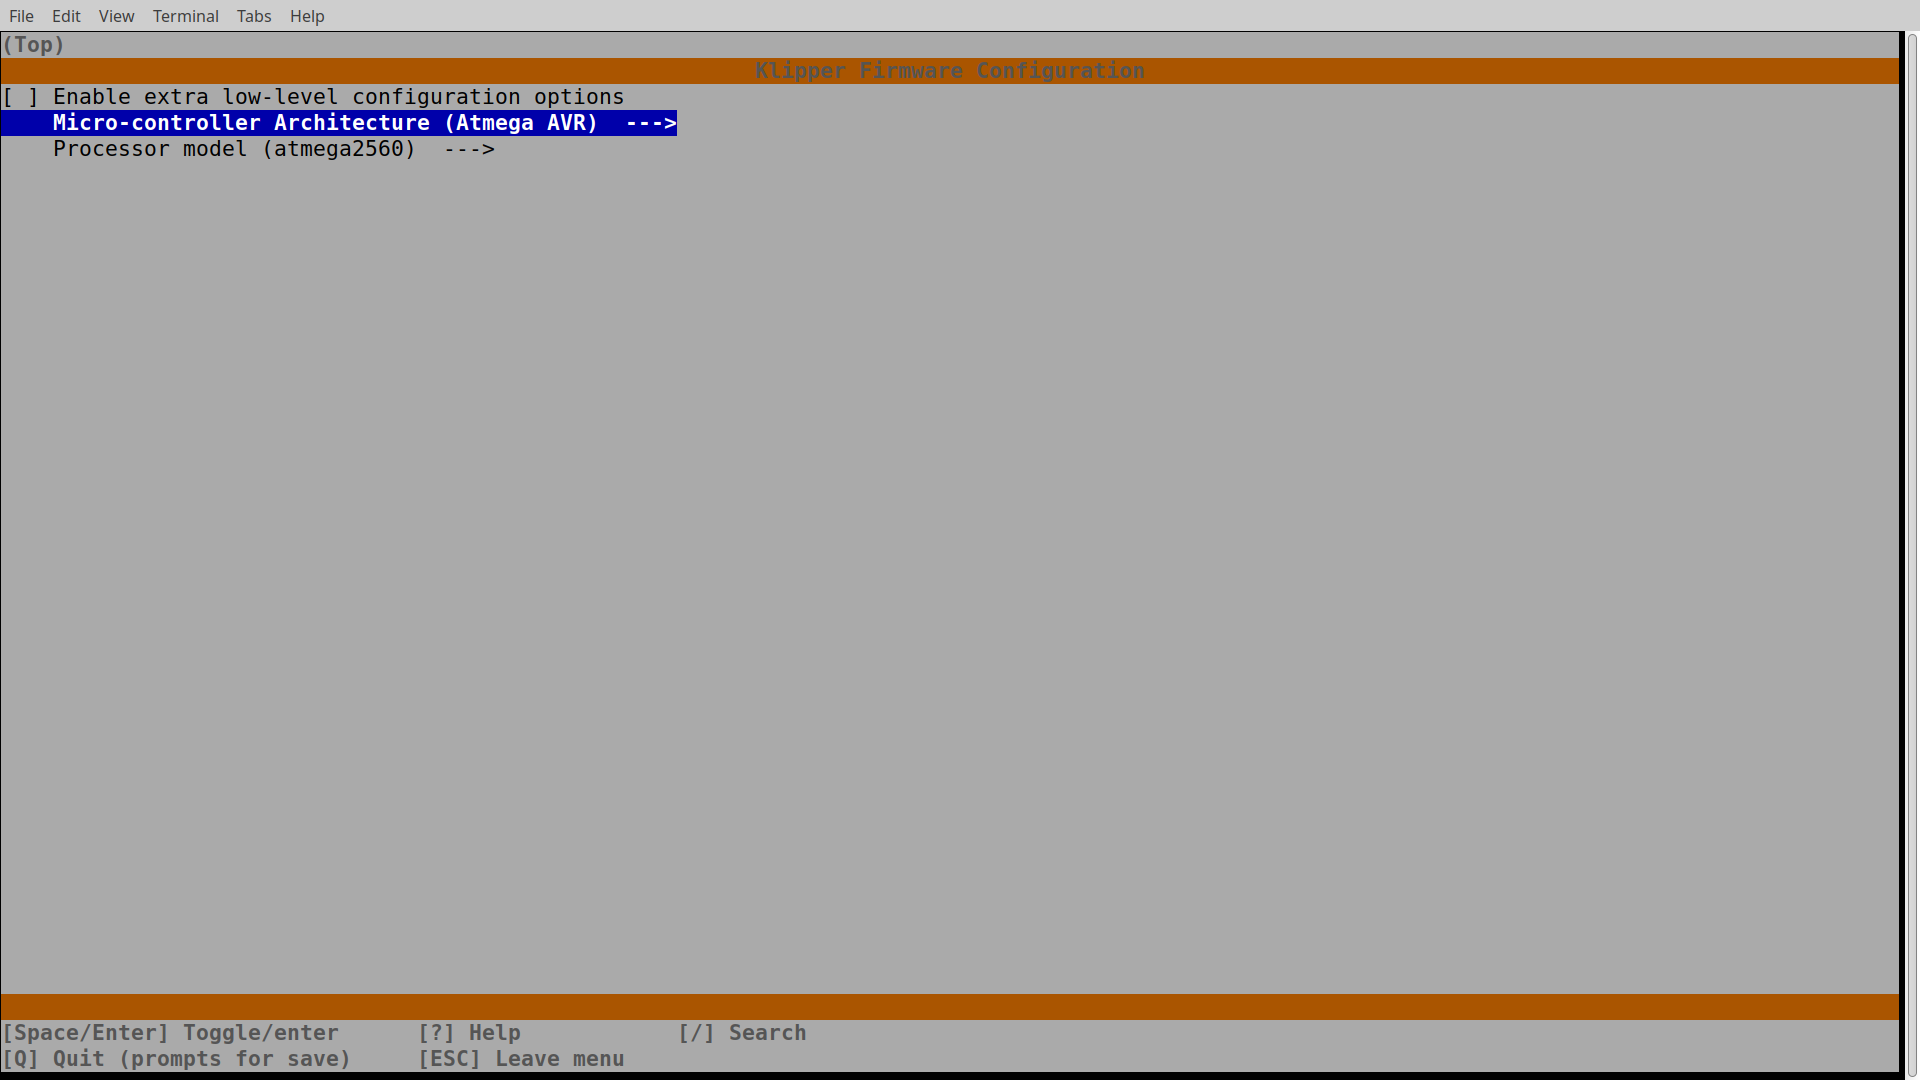
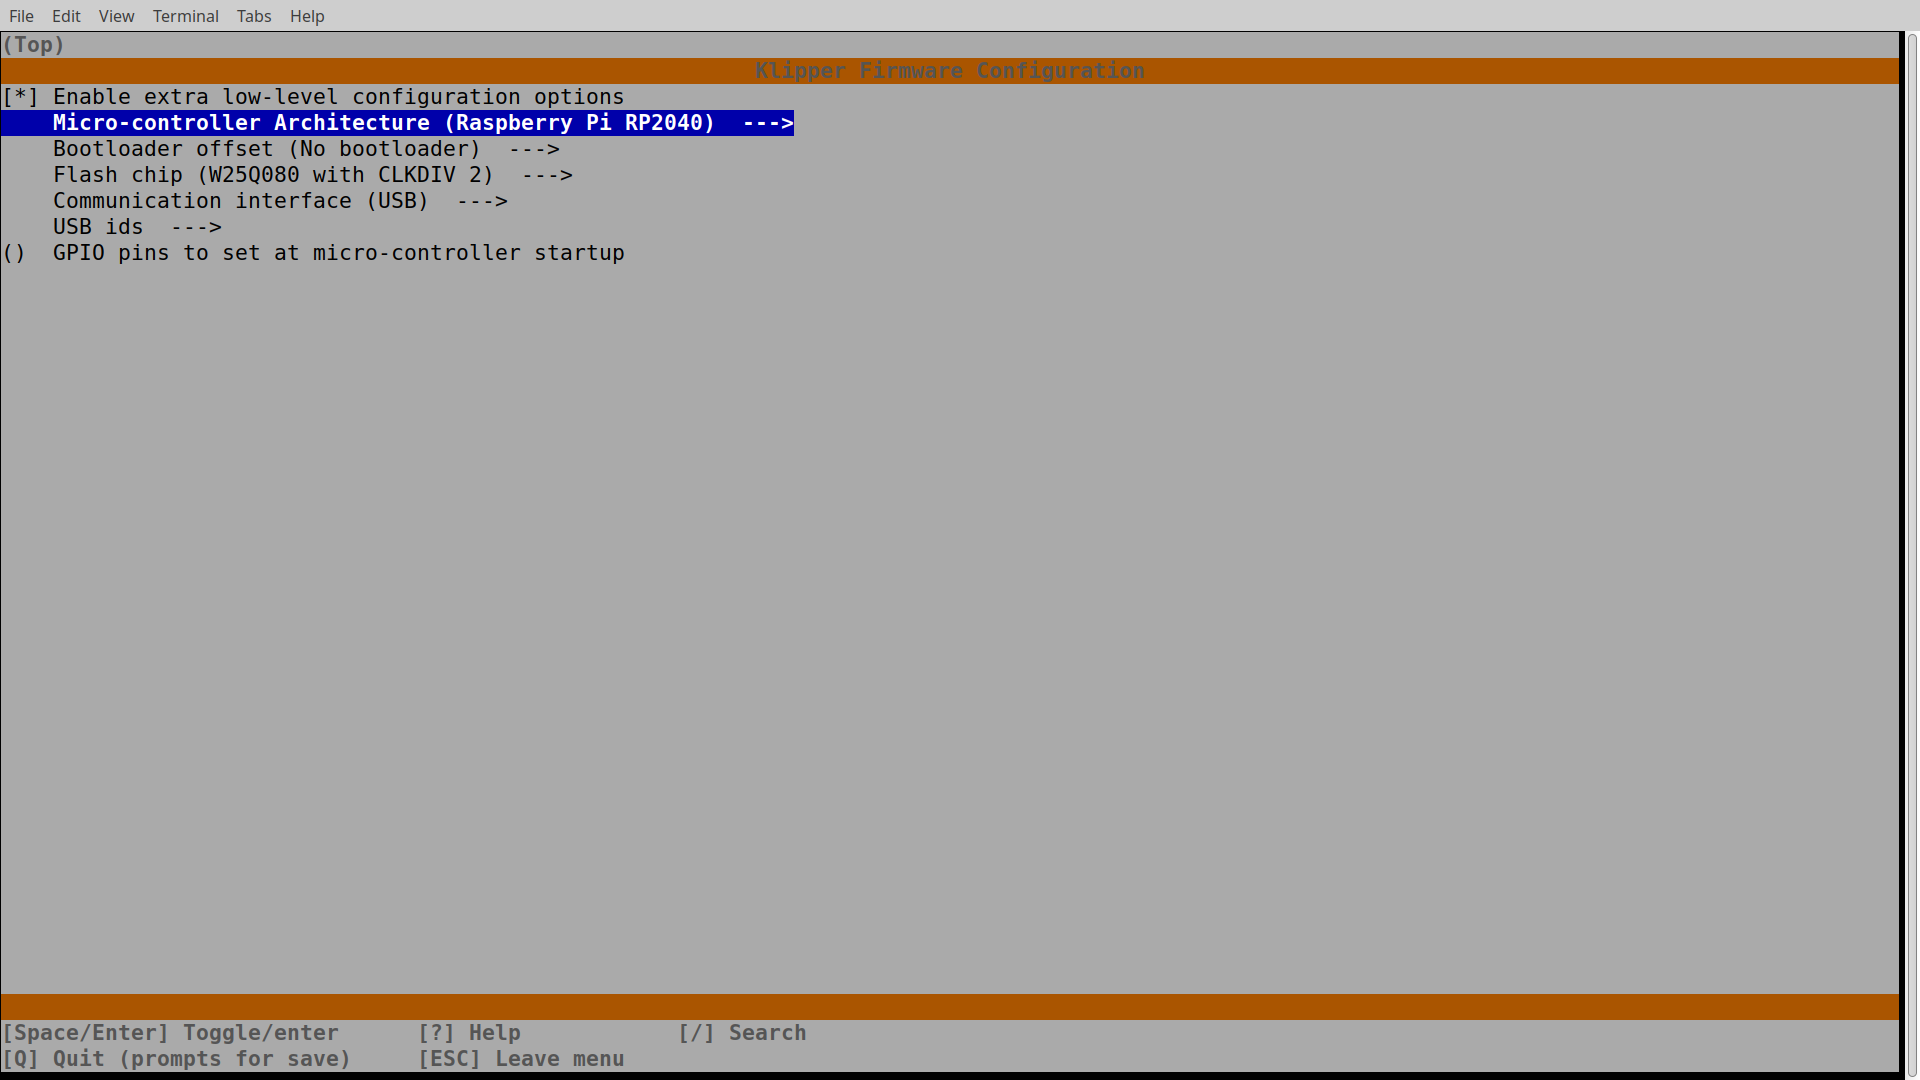
MCU flashing added

Changed region(s): [[0.0312, 0.0917, 0.4375, 0.2444]]

diff --git a/README.md b/README.md
@@ -316,8 +316,7 @@ Compile THR firmware and binary:
 <details>
   <summary>Select compiling options</summary>
 
-  ![Select the kernel configuration](./pictures/klipper_fw_1.png)
-  ![Select the target board](./pictures/klipper_fw_2.png)
+  ![Select the target board](./pictures/klipper_fw_1.png)
 </details>
 
 ```bash
